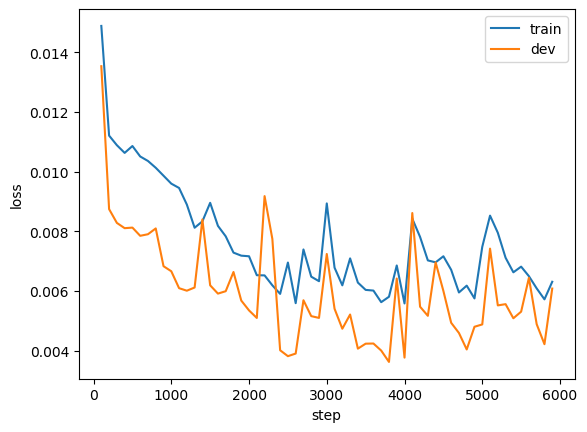
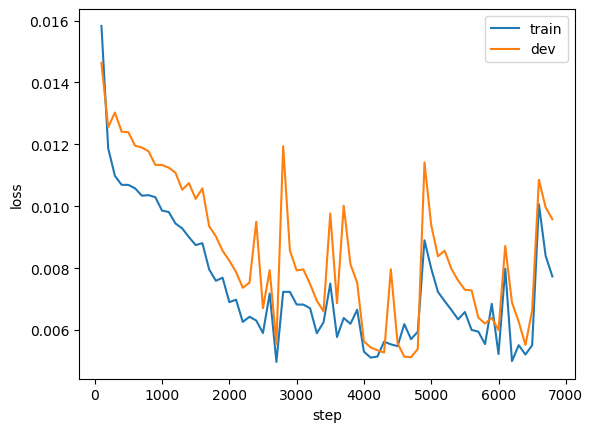
changed batch size to 10

diff --git a/apply_tbnn.py b/apply_tbnn.py
@@ -22,7 +22,7 @@ def trainNetwork(x_train, tb_train, b_train, x_dev, tb_dev, b_dev,
     FLAGS['num_epochs'] = 1000 # maximum number of epochs to run
     FLAGS['early_stop_dev'] = 20 # after this many evaluations without improvement, stop training           
     FLAGS['eval_every'] = 100 # when to evaluate losses
-    FLAGS['train_batch_size'] = 20 # number of points per batch
+    FLAGS['train_batch_size'] = 10 # number of points per batch
     
     FLAGS['loss_type'] = 'l2' # loss type    
     FLAGS['c_reg'] = 1e-7 # L2 regularization strength   
